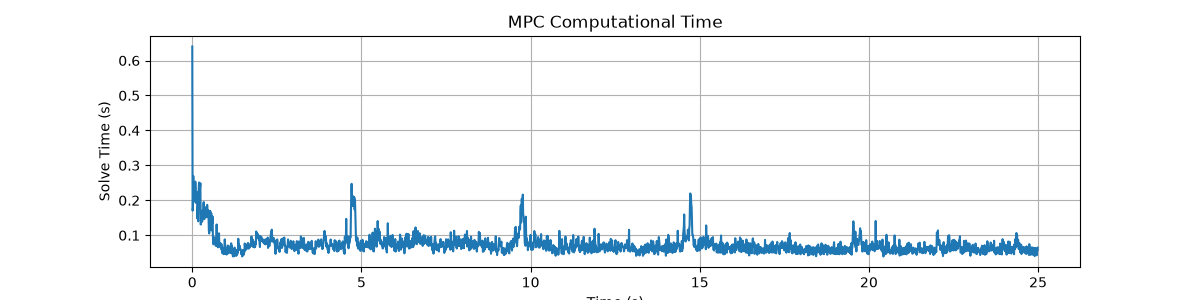
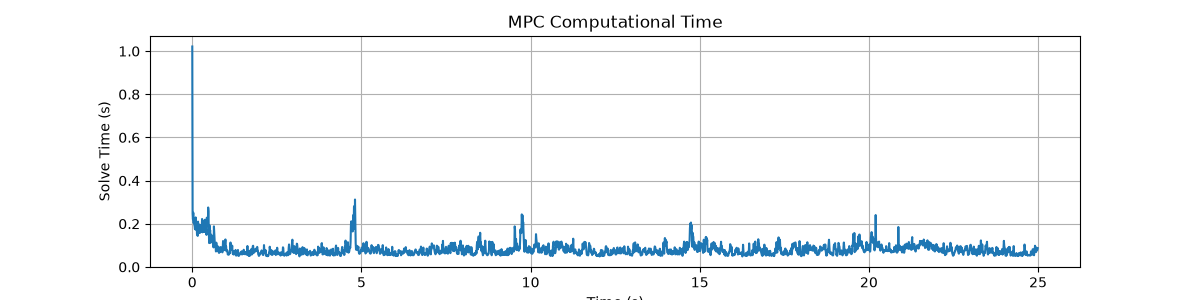
att

diff --git a/sysid/notebooks/identificação-collab/IDENT-HELON/mpc_v2.py b/sysid/notebooks/identificação-collab/IDENT-HELON/mpc_v2.py
@@ -341,9 +341,6 @@ plt.legend(); plt.grid(True); plt.savefig(os.path.join(PLOTS_DIR, "".join([c if 
 # %%
 # 8. Simulation Loop (Rich Signal Dataset Collection)
 xsim_train = np.zeros((nx, 1))
-# Initialize at equilibrium (45 deg, ~45% PWM) to avoid NARX instability from zero
-xsim_train[:ny_model, 0] = 45.0
-xsim_train[ny_model:, 0] = 45.0
 ysim_train = []
 usim_train = []
 w0_val = np.zeros(w.shape[0])
@@ -590,14 +587,11 @@ plt.grid(True); plt.legend(); plt.savefig(os.path.join(PLOTS_DIR, "".join([c if 
 Kp, Ki, Kd = 0.5793, 0.6647, 0.2
 
 xs = np.zeros((nx, 1)) # State vector for the NARX
-# Initialize at equilibrium (45 deg, ~45% PWM) to avoid NARX instability from zero
-xs[:ny_model, 0] = 45.0
-xs[ny_model:, 0] = 45.0
 
 y_sim = []
 u_sim = []
 
-e_1 = 0.0; u_i = 45.0; y_1 = 45.0; y_atual = 45.0
+e_1 = 0.0; u_i = 0.0; y_1 = 0.0; y_atual = 0.0
 
 model.eval()
 
